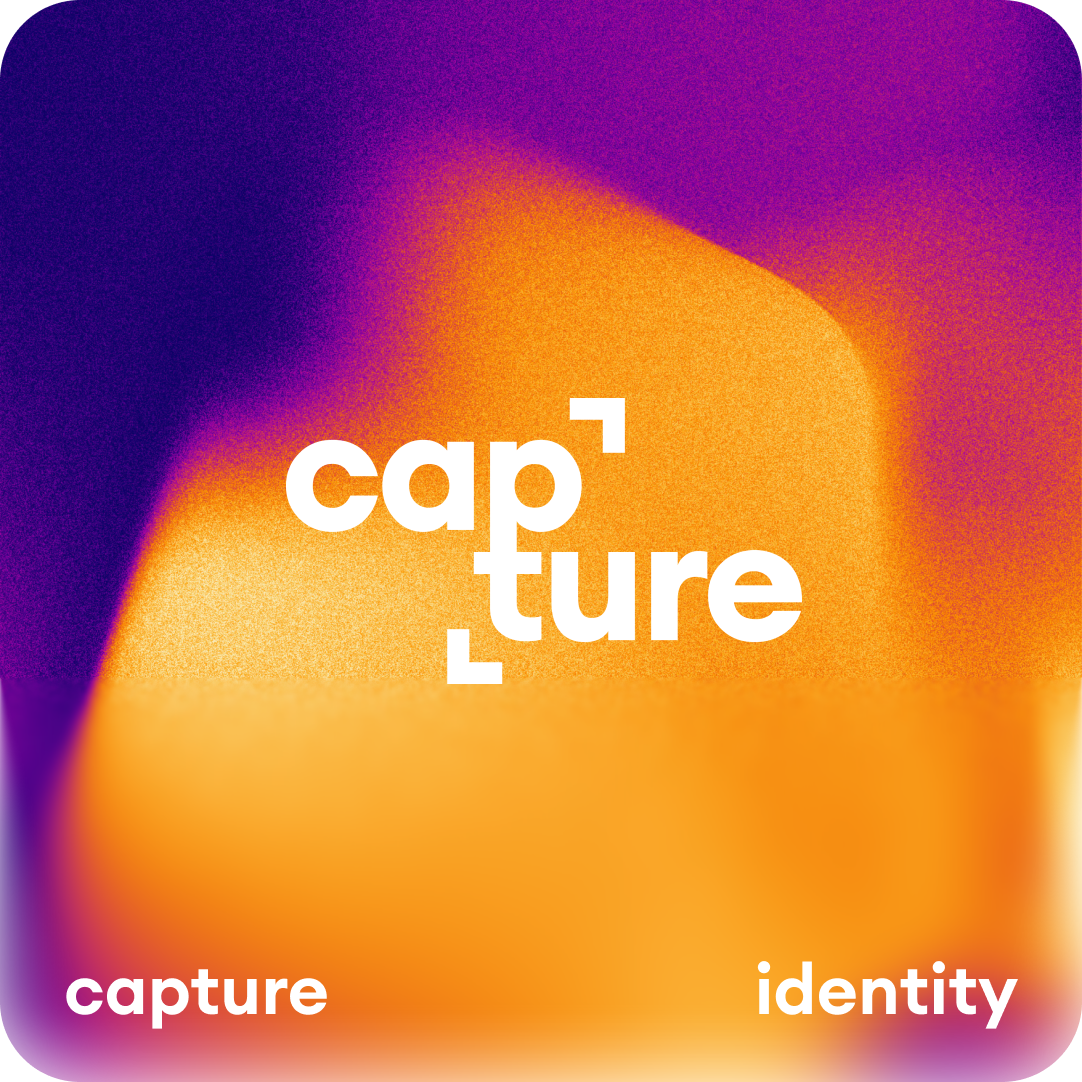
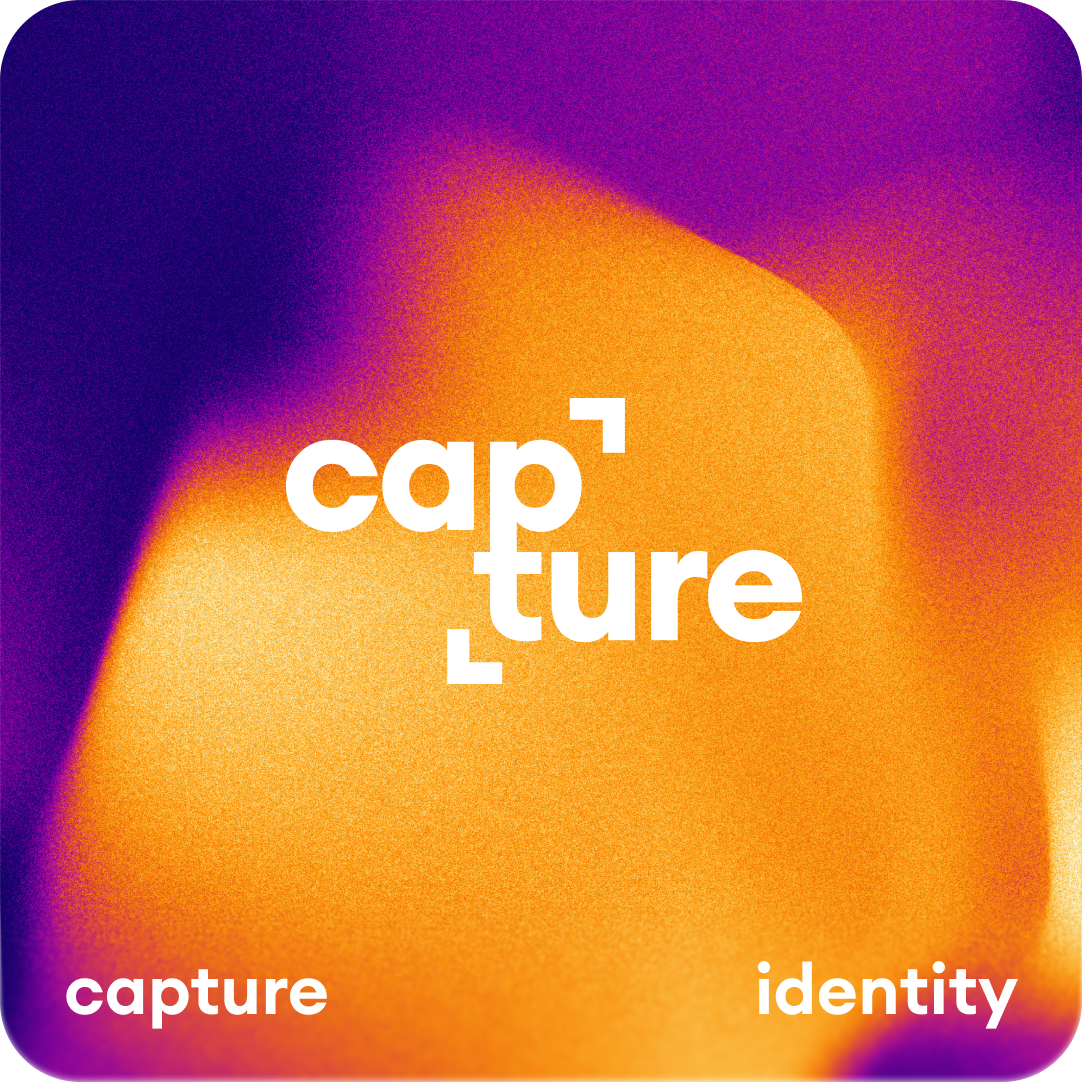
feat: complete layout and content for all project slides

Changed region(s): [[0.0, 0.61, 1.0, 1.0]]

diff --git a/src/styles/style.css b/src/styles/style.css
@@ -12,24 +12,9 @@
   --main-gradient: linear-gradient(88deg, #fa5842 3.7%, #7454c9 79.26%);
   --project-1-gradient: linear-gradient(90deg, #e7e7db 0%, #f3e2db 52.88%);
   --project-2-gradient: linear-gradient(90deg, #ad6650 0%, #e5baaa 24.52%);
-  --project-3-gradient: radial-gradient(
-    256.67% 56.7% at 23.76% 54.58%,
-    #f8c050 16.88%,
-    #c7305b 79.13%,
-    #5a018d 100%
-  );
-  --project-4-gradient: radial-gradient(
-    256.67% 56.7% at 23.76% 54.58%,
-    #c10010 36.06%,
-    #000 50%,
-    #240873 100%
-  );
-  --project-5-gradient: radial-gradient(
-    256.67% 56.7% at 23.76% 54.58%,
-    #313042 0%,
-    #313040 38.46%,
-    #ff7a1f 69.71%
-  );
+  --project-3-gradient: linear-gradient(90deg, #f8c050 30.82%, #c7305b 65.78%, #5a018d 102.99%);
+  --project-4-gradient: linear-gradient(90deg, #c10010 37.91%, #000 49.07%, #240873 101.37%);
+  --project-5-gradient: linear-gradient(90deg, #313042 2.86%, #313040 66.77%, #ff7a1f 97.32%);
 }
 
 /* --- 1. CONFIGURATION GÉNÉRALE --- */
@@ -75,7 +60,7 @@ p {
 
 h1 {
   font-weight: 600;
-  font-size: 45rem;
+  font-size: 43rem;
   line-height: 120%;
 }
 
@@ -364,17 +349,78 @@ section.hero {
   position: absolute;
   top: 6%;
 }
+
 .projects-wrapper > section:first-child > h1 {
   background: linear-gradient(90deg, #e7e7db 0%, #f3e2db 52.88%);
   background-clip: text;
   -webkit-background-clip: text;
   -webkit-text-fill-color: transparent;
 }
-.project-item > img {
+.projects-wrapper > section:first-child > img {
   top: 25%;
   box-shadow: 11px 100px 104.4px -48px rgba(148, 112, 95, 0.61);
 }
-*/
+
+/* 02 - 05 cover */
+.projects-wrapper > section:nth-child(2) > img,
+.projects-wrapper > section:nth-child(3) > img,
+.projects-wrapper > section:nth-child(4) > img,
+.projects-wrapper > section:nth-child(5) > img {
+  top: 50%;
+  left: 50%;
+  transform: translate(-50%, -50%);
+}
+
+/* 02 */
+.projects-wrapper > section:nth-child(2) > h1 {
+  font-size: 42rem;
+  background: var(--project-2-gradient);
+  background-clip: text;
+  -webkit-background-clip: text;
+  -webkit-text-fill-color: transparent;
+}
+.projects-wrapper > section:nth-child(2) > img {
+  box-shadow: 11px 100px 104.4px -48px rgba(204, 133, 96, 0.24);
+}
+
+/* 03 */
+.projects-wrapper > section:nth-child(3) > h1 {
+  font-size: 48.5rem;
+  background: var(--project-3-gradient);
+  background-clip: text;
+  -webkit-background-clip: text;
+  -webkit-text-fill-color: transparent;
+  margin-bottom: 2%;
+}
+.projects-wrapper > section:nth-child(3) > img {
+  box-shadow: 11px 100px 104.4px -48px rgba(255, 149, 10, 0.339);
+}
+
+/* 04 */
+.projects-wrapper > section:nth-child(4) > h1 {
+  font-size: 54rem;
+  background: var(--project-4-gradient);
+  background-clip: text;
+  -webkit-background-clip: text;
+  -webkit-text-fill-color: transparent;
+  margin-bottom: 6%;
+}
+.projects-wrapper > section:nth-child(4) > img {
+  box-shadow: 11px 100px 104.4px -48px rgba(78, 0, 1, 0.33);
+}
+
+/* 05 */
+.projects-wrapper > section:nth-child(5) > h1 {
+  font-size: 37rem;
+  background: var(--project-5-gradient);
+  background-clip: text;
+  -webkit-background-clip: text;
+  -webkit-text-fill-color: transparent;
+  margin-bottom: 3%;
+}
+.projects-wrapper > section:nth-child(5) > img {
+  box-shadow: 11px 100px 104.4px -48px rgba(6, 0, 41, 0.33);
+}
 
 /* --- 6. FOOTER --- */
 .footer {

diff --git a/index.html b/index.html
@@ -169,10 +169,22 @@
           <h1>portfolio</h1>
           <img src="./src/assets/images/projet-1-mirage.png" alt="mirage-protfolio" />
         </section>
-        <section class="slide project-item">project 02</section>
-        <section class="slide project-item">project 03</section>
-        <section class="slide project-item">project 04</section>
-        <section class="slide project-item">project 05</section>
+        <section class="slide project-item">
+          <h1>branding</h1>
+          <img src="./src/assets/images/projet-2-ornate.png" alt="mirage-protfolio" />
+        </section>
+        <section class="slide project-item">
+          <h1>identity</h1>
+          <img src="./src/assets/images/projet-3-capture.png" alt="mirage-protfolio" />
+        </section>
+        <section class="slide project-item">
+          <h1>motion</h1>
+          <img src="./src/assets/images/projet-4-pulse.png" alt="mirage-protfolio" />
+        </section>
+        <section class="slide project-item">
+          <h1>interfaces</h1>
+          <img src="./src/assets/images/projet-5-interfaces.png" alt="mirage-protfolio" />
+        </section>
       </div>
     </main>
 
